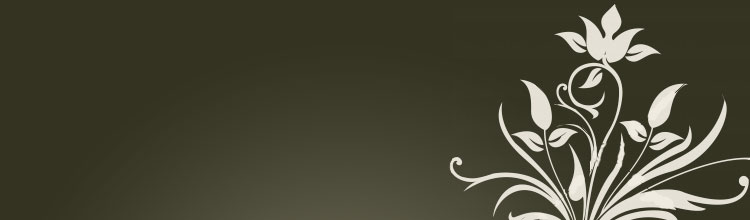
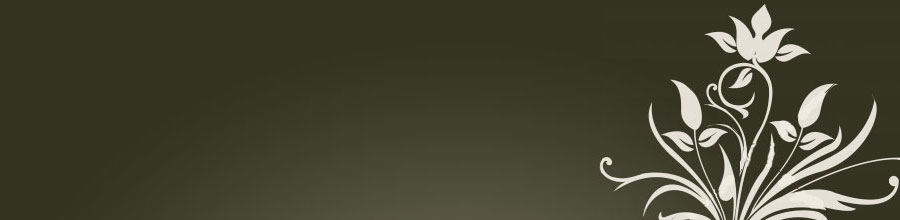
updated theme.
git-svn-id: svn://svn.liferay.com/repos/public/plugins/trunk@10713 05bdf26c-840f-0410-9ced-eb539d925f36

Changed region(s): [[0.5827, 0.0273, 1.0, 1.0], [0.644, 0.4909, 0.6747, 0.6], [0.6747, 0.3545, 0.7053, 0.3818]]

diff --git a/themes/natural-essence-theme/docroot/_diffs/css/custom.css b/themes/natural-essence-theme/docroot/_diffs/css/custom.css
@@ -55,9 +55,9 @@ body {
 }
 
 #outter {
-	background:#333322 url(../images/common/wrapper.gif) no-repeat scroll left bottom;
+	background: #333322;
 	margin:38px auto;
-	width:762px;
+	width:912px;
 }
 
 #wrapper {
@@ -66,12 +66,14 @@ body {
 	font-size:1.3em;
 	line-height:1.3em;
 	margin:0pt auto;
-	width:750px;
+	width:900px;
 }
 
 #banner {
 	height: 277px;
 	background: #DAD7C5 url(../images/common/header.jpg) no-repeat scroll left bottom;
+	margin: 0;
+	padding: 0;
 }
 
 #banner .logo {
@@ -79,11 +81,13 @@ body {
 	background:#E2DED5 url(../images/common/header-h1.jpg) repeat-x scroll 0 0;
 	border-top: 1px solid #996;
 	border-bottom: 2px solid #663;
+	margin: 0;
+	padding: 0;
 }
 #banner .logo a {
 	display: block;
-	font: normal normal normal 2.2em Georgia,"Trebuchet MS",sans-serif;
-	padding: 10px 0 10px 18px;
+	font: normal normal normal 2.2em/54px Georgia,"Trebuchet MS",sans-serif;
+	padding: 0 18px;
 	color : #642;
 }
 
@@ -109,7 +113,7 @@ height:41px;
 	border-right:1px solid #C9C6B3;
 	color:#553;
 	font: bold normal normal 1em/41px Tahoma,sans-serif;
-	text-align:center;
+	text-align: center;
 	text-decoration:none;
 }
 
@@ -151,4 +155,8 @@ height:41px;
 	background: #332 none repeat scroll 0%;
 	color: #eed;
 	padding: 10px;
+}
+
+.liferay-table {
+	font: 10px/10px Arial;
 }
